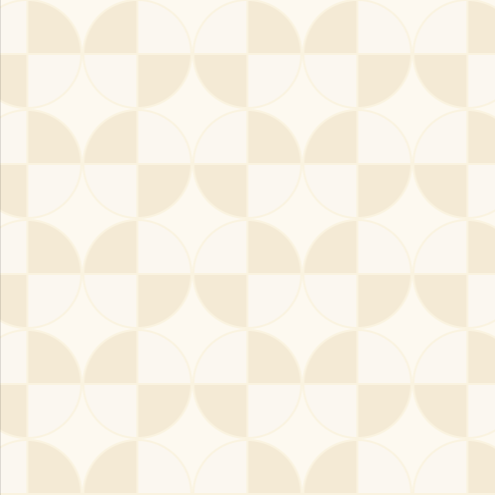
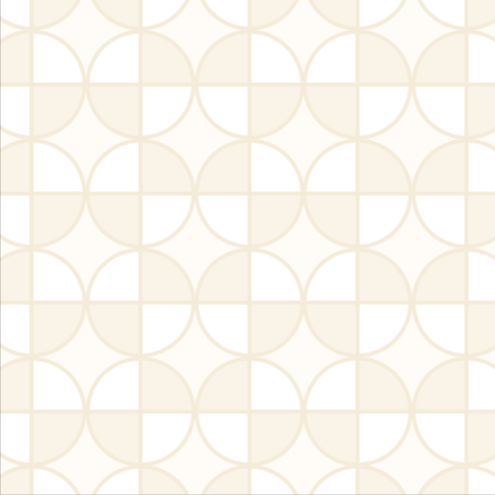
Update quarter-circle-pattern make borders thicker and more visible adjust the colors used for more contrast and clear pattern

diff --git a/illustrations/quarter-circle-pattern/style.css b/illustrations/quarter-circle-pattern/style.css
@@ -2,11 +2,11 @@
 
 /* COLOR PALETTE */
 :root {
-    --cream: #FAF3E0;        /* Borders */
-    --pearl: #FBF7F0;        /* Lightest fill */
-    --linen: #F7F0E5;        /* Light fill */
-    --sand: #F4EAD5;         /* Medium fill */
-    --wheat: #F0E5CC;        /* Darker fill */
+--pearl: #FFFCF7;        /* Lightest fill */
+--ivory: #FAF4E8;        /* Lighter fill */
+--linen: #F5EBD9;        /* Light fill */
+--sand: #EBDAB8;         /* Medium fill */
+--wheat: #D4BC8F;        /* Darker fill */
 }
 
 .quarter-circle-pattern-illustration-container {
@@ -15,7 +15,7 @@
     align-items: center;
     justify-content: center;
     position: relative;
-    background-color: var(--background);
+    background-color: var(--pearl);
     overflow: hidden;
     width: 100%;
     height: 100%;
@@ -28,13 +28,14 @@
     align-items: center;
     justify-content: center;
     position: relative;
-    gap: 0px;
+    margin-bottom: -1px;
 }
 
 .circle {
     width: 100px;
     height: 100px;
     position: relative;
+    margin-right: -1px;
 }
 
 /* TOP HALF */
@@ -51,18 +52,18 @@
     width: 50px;
     height: 50px;
     border-radius: 50px 0 0 0;
-    border: 2px solid var(--cream);
-    border-right: 1px solid var(--cream);
-    border-bottom: 1px solid var(--cream);
+    border: 4px solid var(--linen);
+    border-right: 2px solid var(--linen);
+    border-bottom: 2px solid var(--linen);
 }
 
 .quarter-top-right {
     width: 50px;
     height: 50px;
     border-radius: 0 50px 0 0;
-    border: 2px solid var(--cream);
-    border-left: 1px solid var(--cream);
-    border-bottom: 1px solid var(--cream);
+    border: 4px solid var(--linen);
+    border-left: 2px solid var(--linen);
+    border-bottom: 2px solid var(--linen);
 }
 
 /* BOTTOM HALF */
@@ -79,45 +80,39 @@
     width: 50px;
     height: 50px;
     border-radius: 0 0 0 50px;
-    border: 2px solid var(--cream);
-    border-top: 1px solid var(--cream);
-    border-right: 1px solid var(--cream);
+    border: 4px solid var(--linen);
+    border-top: 2px solid var(--linen);
+    border-right: 2px solid var(--linen);
 }
 
 .quarter-bottom-right {
     width: 50px;
     height: 50px;
     border-radius: 0 0 50px 0;
-    border: 2px solid var(--cream);
-    border-left: 1px solid var(--cream);
-    border-top: 1px solid var(--cream);
+    border: 4px solid var(--linen);
+    border-left: 2px solid var(--linen);
+    border-top: 2px solid var(--linen);
 }
 
 /* QUARTER CIRCLES - COLORS */
 
-/* All circles the same, creating a uniform pattern */
-.circle .quarter-top-left { background-color: var(--pearl); }
-.circle .quarter-top-right { background-color: var(--linen); }
-.circle .quarter-bottom-left { background-color: var(--linen); }
-.circle .quarter-bottom-right { background-color: var(--pearl); }
-
-/* OR: Checkerboard with just 2 tones */
+/* Checkerboard with just 2 tones */
 .circle:nth-child(odd) .quarter-top-left,
 .circle:nth-child(odd) .quarter-bottom-right { 
-    background-color: var(--pearl); 
+    background-color: var(--ivory); 
 }
 
 .circle:nth-child(odd) .quarter-top-right,
 .circle:nth-child(odd) .quarter-bottom-left { 
-    background-color: var(--sand); 
+    background-color: white;
 }
 
 .circle:nth-child(even) .quarter-top-left,
 .circle:nth-child(even) .quarter-bottom-right { 
-    background-color: var(--sand); 
+    background-color: white;
 }
 
 .circle:nth-child(even) .quarter-top-right,
 .circle:nth-child(even) .quarter-bottom-left { 
-    background-color: var(--pearl); 
+    background-color: var(--ivory);
 }
